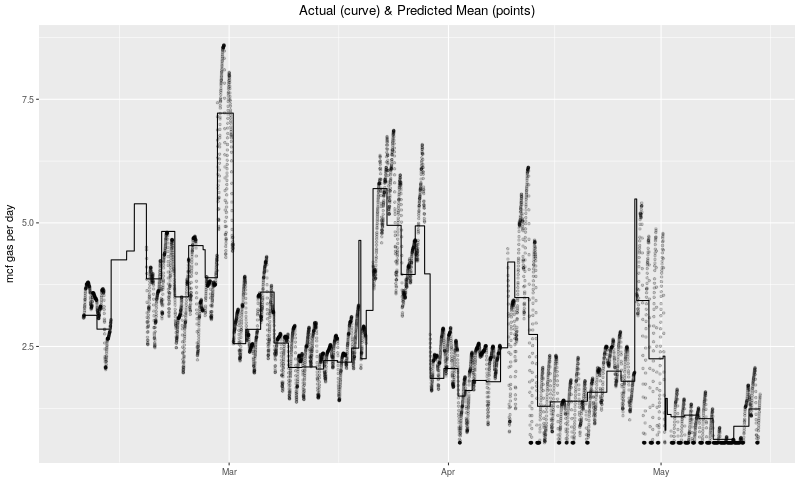
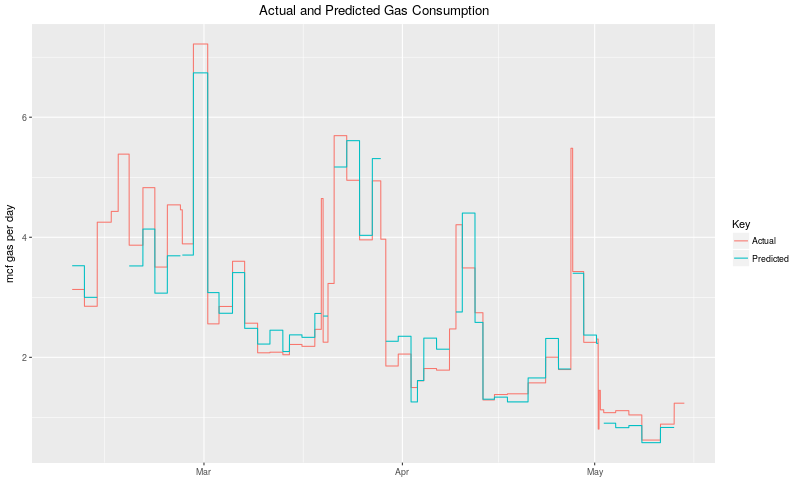
auto commit

diff --git a/index.html b/index.html
@@ -4,7 +4,7 @@
 <html xmlns="http://www.w3.org/1999/xhtml" lang="en" xml:lang="en">
 <head>
 <title></title>
-<!-- 2017-01-21 Sat 05:40 -->
+<!-- 2017-02-04 Sat 07:41 -->
 <meta  http-equiv="Content-Type" content="text/html;charset=utf-8" />
 <meta  name="generator" content="Org-mode" />
 <style type="text/css">
@@ -389,12 +389,10 @@ dollars respectively.
 </p>
 
 <p>
-Plotting the mean gas consumption that the model predicts versus
-the actual observed values results in the plot below. Here the
-curve is the rate of gas consumption in thousands of cubic feet per
-day&#x2014;we saw this before in the raw data plot&#x2014;and the points are
-the predictions. (There are only predictions for times that are
-either idle, sesshin, SIMT or UR.)
+The plot below describes both observed and predicted gas
+consumption for the study period. As before in the raw data plot
+the units are thousands of cubic feet per day. (There are only
+predictions for times that are either idle, sesshin, SIMT or UR.)
 </p>
 
 
@@ -677,7 +675,7 @@ where \(y\) is electricity consumption in kWh per day and the
 </div>
 </div>
 <div id="postamble" class="status">
-<p class="date">Created: 2017-01-21 Sat 05:40</p>
+<p class="date">Created: 2017-02-04 Sat 07:41</p>
 <p class="creator"><a href="http://www.gnu.org/software/emacs/">Emacs</a> 26.0.50.2 (<a href="http://orgmode.org">Org</a> mode 8.2.10)</p>
 <p class="validation"><a href="http://validator.w3.org/check?uri=referer">Validate</a></p>
 </div>
